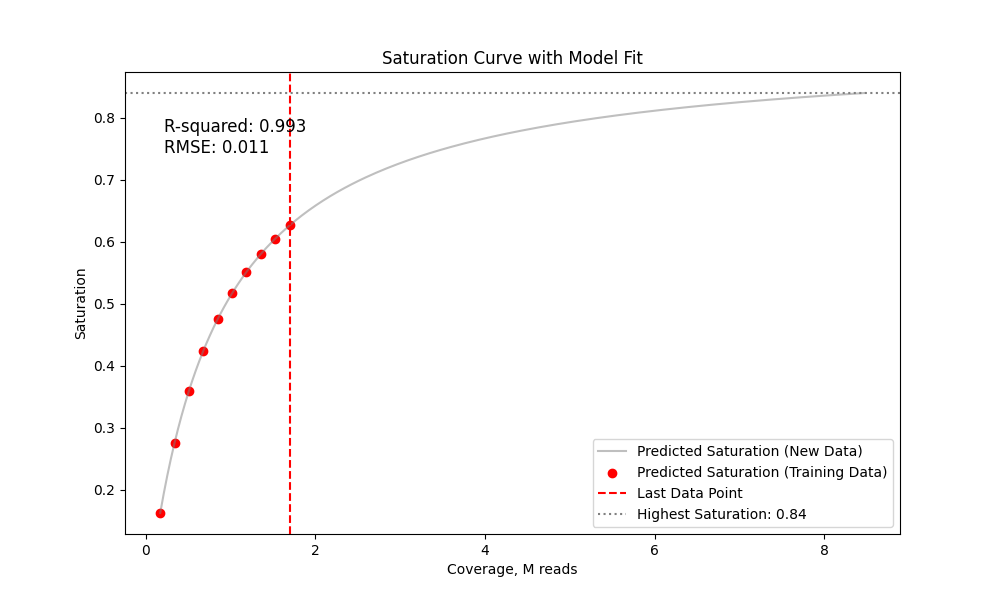
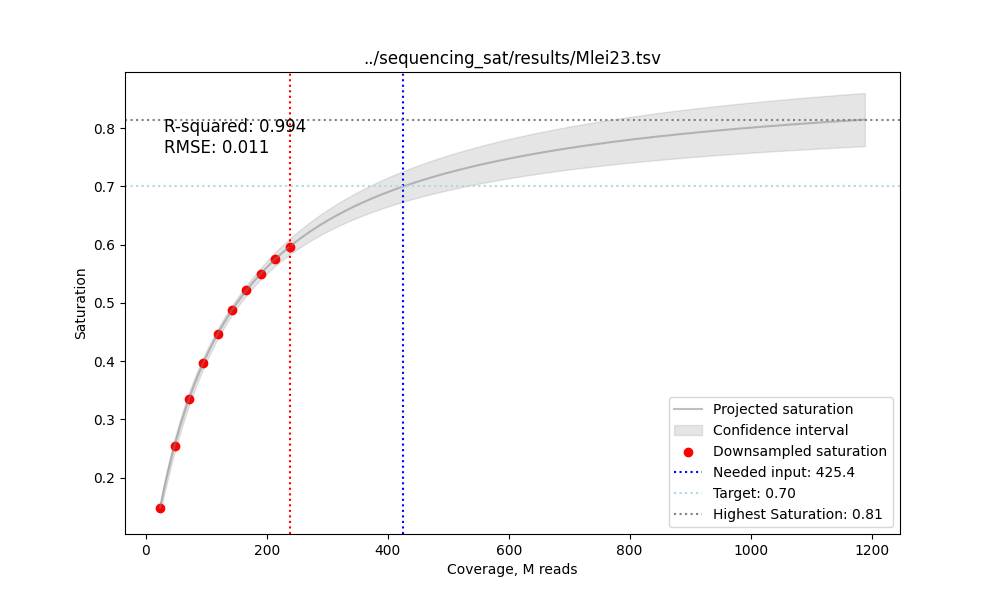
added residuals

diff --git a/scripts/plot_curve.py b/scripts/plot_curve.py
@@ -13,14 +13,32 @@ def saturation_model(ninput, Vmax, Km):
 def fit_model(d, newdata):
     # Fit the model using curve_fit from scipy
     popt, pcov = curve_fit(saturation_model, d['ninput'], d['sat'], maxfev=10000)
-    
+
     # Predict saturation for data used in training (d)
     pred_train = saturation_model(d['ninput'], *popt)
-    
+
     # Predict saturation for new data (newdata)
     pred_new = saturation_model(newdata['ninput'], *popt)
+
+    return pred_train, pred_new, popt, pcov
+
+# Function to compute confidence intervals
+def compute_confidence_intervals(x, popt, pcov, alpha=0.95):
+    from scipy.stats import t
+    Vmax, Km = popt
+    n = len(x)
+    p = len(popt)
+    dof = max(0, n - p)
+    tval = t.ppf((1 + alpha) / 2, dof)
+    sigma = np.sqrt(np.diag(pcov))
+
+    confs = []
+    for xi in x:
+        J = np.array([(xi / (Km + xi)), (-Vmax * xi / (Km + xi)**2)])
+        conf = tval * np.sqrt(J @ pcov @ J.T)
+        confs.append(conf)
     
-    return pred_train, pred_new, popt
+    return np.array(confs)
 
 # Argument parsing
 parser = argparse.ArgumentParser(description='Fit a saturation model and plot the saturation curve.')
@@ -31,6 +49,8 @@ parser.add_argument('--n_points', type=int, default=200, help='Number of points 
 parser.add_argument('--target', type=float, default=0.7, help='Target saturation')
 args = parser.parse_args()
 
+target_saturation = args.target
+
 # Read input data
 try:
     d = pd.read_csv(args.infile, sep='\t')
@@ -40,28 +60,54 @@ except FileNotFoundError:
 
 # Predict using fit_model function
 da = pd.DataFrame({'ninput': np.linspace(min(d['ninput']), max(d['ninput']) * args.maxx, num=args.n_points)})
-pred_train, pred_new, popt = fit_model(d, da)
-
+pred_train, pred_new, popt, pcov = fit_model(d, da)
 highest_saturation = np.max(pred_new)
+
+# Calculate residuals
+residuals = d['sat'] - pred_train
+
+# Compute confidence intervals for the predictions
+confidence_intervals = compute_confidence_intervals(da['ninput'], popt, pcov)
 
 # Calculate R-squared and RMSE for training data
 r2_train = r2_score(d['sat'], pred_train)
 rmse_train = np.sqrt(mean_squared_error(d['sat'], pred_train))
 
-# Calculate R-squared for new data (testing data)
-r2_new = r2_score(d['sat'], pred_train)  # Same as training data
-rmse_new = np.sqrt(mean_squared_error(d['sat'], pred_train))  # Same as training data
+# Report the input ninput where saturation is 0.7
+def find_ninput_for_saturation(Vmax, Km, target_saturation=0.7):
+    # Function to solve for ninput when saturation is target_saturation
+    def saturation_eq(ninput):
+        return saturation_model(ninput, Vmax, Km) - target_saturation
 
+    # Initial guess for ninput (can be adjusted based on your data)
+    initial_guess = 1e7  # at least 10M reads
+
+    # Use root finding method to find ninput
+    from scipy.optimize import fsolve
+    ninput_solution = fsolve(saturation_eq, initial_guess)[0]
+
+    print(f"Vmax: {Vmax:.3f}; Km: {Km:.3f}")
+    print(f"Initial guess: {initial_guess}")
+    print(f"ninput_solution: {ninput_solution}")
+
+    return ninput_solution
+
+ninput_saturation = find_ninput_for_saturation(popt[0], popt[1], target_saturation)
+
+print(f"To achieve a saturation of {target_saturation:.2f}, ninput should be approximately: {ninput_saturation / 1e6 :.1f} M reads")
 
 # Plotting with metrics
 plt.figure(figsize=(10, 6))
-plt.plot(da['ninput'] / 1e6, pred_new, color='gray', label='Predicted Saturation (New Data)', alpha=0.5)
-plt.scatter(d['ninput'] / 1e6, pred_train, color='red', label='Predicted Saturation (Training Data)')
+plt.plot(da['ninput'] / 1e6, pred_new, color='gray', label='Projected saturation', alpha=0.5)
+plt.fill_between(da['ninput'] / 1e6, pred_new - confidence_intervals, pred_new + confidence_intervals, color='gray', alpha=0.2, label='Confidence interval')
+plt.scatter(d['ninput'] / 1e6, pred_train, color='red', label='Downsampled saturation')
 plt.xlabel('Coverage, M reads')
 plt.ylabel('Saturation')
-plt.axvline(x=d.iloc[-1]['ninput'] / 1e6, color='red', linestyle='--', label='Last Data Point')
-plt.axhline(y=highest_saturation, color='grey',linestyle=':', label=f'Highest Saturation: {highest_saturation:.2f}')
-plt.title('Saturation Curve with Model Fit')
+plt.axvline(x=d.iloc[-1]['ninput'] / 1e6, color='red', linestyle=':')
+plt.axvline(x=ninput_saturation / 1e6, color='blue', linestyle=':', label=f'Needed input: {ninput_saturation / 1e6:.1f}')
+plt.axhline(y=target_saturation, color='lightblue', linestyle=':', label=f'Target: {target_saturation:.2f}')
+plt.axhline(y=highest_saturation, color='grey', linestyle=':', label=f'Highest Saturation: {highest_saturation:.2f}')
+plt.title(args.infile)
 plt.text(0.05, 0.9, f'R-squared: {r2_train:.3f}\nRMSE: {rmse_train:.3f}', transform=plt.gca().transAxes, fontsize=12, verticalalignment='top')
 plt.legend()
 
@@ -71,22 +117,15 @@ plt.close()
 
 print(f"Plot saved to {args.plotfile}")
 
-# Report the input ninput where saturation is 0.7
-def find_ninput_for_saturation(Vmax, Km, target_saturation=0.7):
-    # Function to solve for ninput when saturation is target_saturation
-    def saturation_eq(ninput):
-        return saturation_model(ninput, Vmax, Km) - target_saturation
-    
-    # Initial guess for ninput (can be adjusted based on your data)
-    initial_guess = 1.0
-    
-    # Use root finding method to find ninput
-    from scipy.optimize import fsolve
-    ninput_solution = fsolve(saturation_eq, initial_guess)[0]
-    
-    return ninput_solution
+# Plot residuals
+plt.figure(figsize=(10, 6))
+plt.scatter(d['ninput'] / 1e6, residuals, color='red')
+plt.axhline(0, color='gray', linestyle='--')
+plt.xlabel('Coverage, M reads')
+plt.ylabel('Residuals')
+plt.title('Residuals Plot')
+plt.savefig(args.plotfile.replace('.png', '_residuals.png'))
+plt.close()
 
-
-ninput_saturation = find_ninput_for_saturation(popt[0], popt[1], args.target) / 1e6
-print(f"To achieve a saturation of {args.target:.2f}, ninput should be approximately: {ninput_saturation:.1f} M reads")
+print(f"Residuals plot saved to {args.plotfile.replace('.png', '_residuals.png')}")
 

diff --git a/README.md b/README.md
@@ -1,5 +1,5 @@
 
-## Compute sample saturation curve by subsampling the dataset. 
+## Compute sample saturation curve by downsampling 
 
 This script subsamples the .bam file and fits the saturation curve based on the amount of __input reads__. For the estimation  to be precise, the mapping rate and the number of cells should be supplied.  
 
